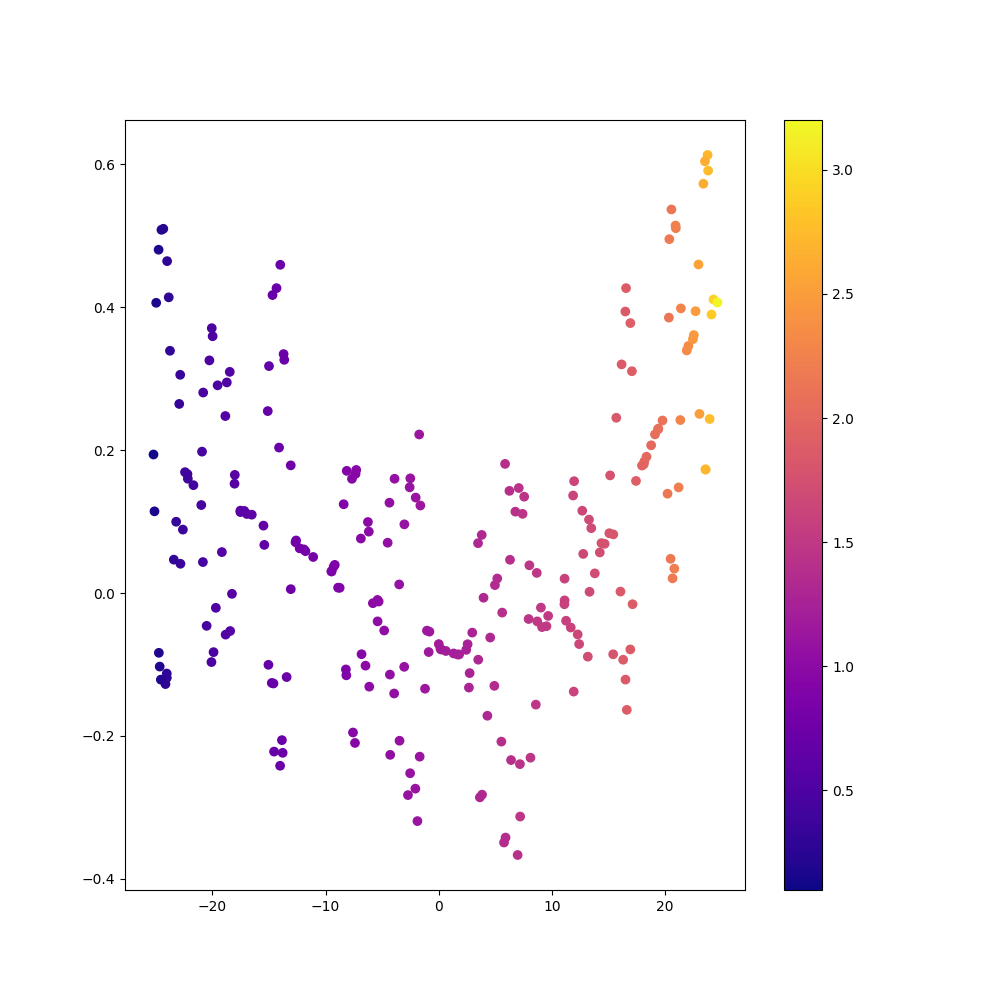
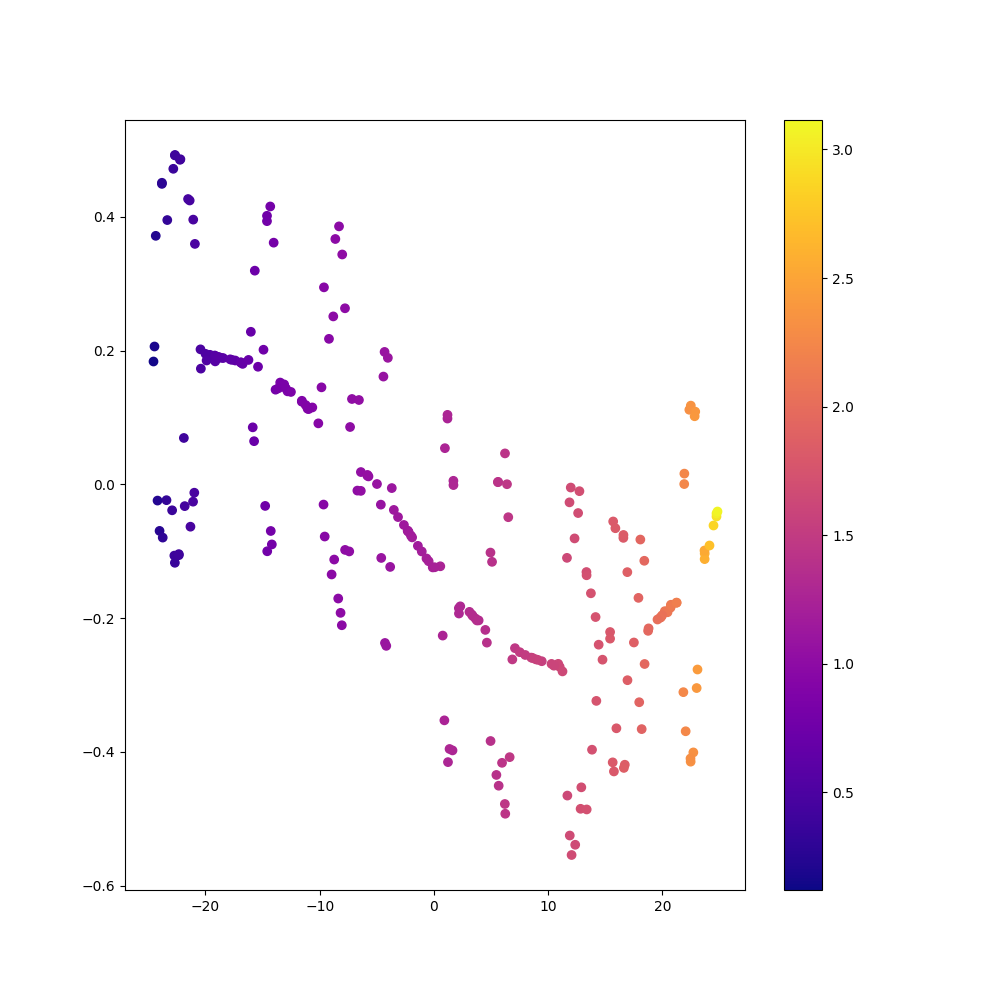
small bug fix. Decoder branch uses proper MSE reconstruction loss

diff --git a/imbal/util/backend/model.py b/imbal/util/backend/model.py
@@ -1172,8 +1172,8 @@ class Model(keras.Model):
         updated_compile_kwargs = kwargs.copy()
         model_loss = updated_compile_kwargs.get('loss', False)
         updated_compile_kwargs['loss'] = (
-            [updated_compile_kwargs['loss'], self._representation_loss] if model_loss
-            else self._representation_loss
+            [updated_compile_kwargs['loss'], _mse_reconstruction_loss] if model_loss
+            else _mse_reconstruction_loss
         )
 
         model_metrics = kwargs.get('metrics', None)

diff --git a/development-notes/2026 Notes/Notes 8-26.md b/development-notes/2026 Notes/Notes 8-26.md
@@ -174,19 +174,57 @@
 	- Once happy with the time series plots, superimpose a circle on the pink plot that corresponds to the area of high error on the true vs predicted scatter plot $\checkmark$
 - SHAP will be used for explanations in section `4 SEP Forecasting tasks
 ## NASA
-- Use toy dataset for ensuring representation losses are working properly
+- Use toy dataset for ensuring representation losses are working properly $\checkmark$
 - SHAP can have some extra parameters for how many features to display, extra padding for the left side of the graph? Investigate
 
 ---
 # 9/1/26
 
 ## Thesis
+Axes of exploration:
+- Latent space unit hypersphere: y/n
+- Loss function, constant vs non-constant distance ratio
+- Use more than 2 (6) dimensions in representation space
+- (!!!) Inclusion/excluison of weighting samples inversely with respect to the distance in the label space 
+  (futher labels need not have similar representations)
+- joint, freeze, fine-tuning (fine-tuning will probably work best)
+
+We expect non-unit space and constant ratio to work well, and unit hypersphere and non-constant ratio to work well
+
+**Order of tasks:**
+- **Round 1:** Constant + linear (no hypersphere) w/ 6+ dimensions in the representation space (using 32 for SEP-E) w/ fine tuning
+	- Perhaps add joint here with time
+	- **Round 2:** Then, constant + no hypersphere + "decorrelation among features" loss (we expect this to help) (with joint as well if first experiments shows it to be any better)
+	- Keep results of the "winner" of above 2 experiments, try it with hypersphere to see if there is any improvement
+- **Round 3:** Later, unit hypersphere with non-constant speed, cosine similarity-based representation loss
+	- We expect this to be better than winner of first 2 experiments w/ hypersphere
+- **Round 4:** Hypersphere, constant distance ratio, *non-linear regressor*, trying best from rounds 2 and 3 to see which does better... or, is round 2 sufficient when using a non-linear regressor? (multiple layer regressor with activation functions)
+- Might be worth trying to weight samples by `t+6 - t` in the future
+
+**Other thoughts...**
 - Something for gradient conflicts
 	- Think not only of direction, but length
 	- More common samples means larger gradient vector
 	- Considering magnitude, scaling such that the magnitude of the vectors are of the same length
 ## Paper
 - SHAP will be used for explanations in section `4 SEP Forecasting tasks
+- Crop time series plots further to highlight areas of interested (right before and right after rising edge)
+	- Assume each picture will be 6.5 inches, across the page. Is is visible?
+	- Include dates in each tick mark, ticks can be 6-12 hours apart
+	- y label can simply be `ln(flux)`Loss
 ## NASA
-- Use toy dataset for ensuring representation losses are working properly
+
+Using toy dataset...
+
+|         | MSE Loss     | Representation Loss | Fine Tuning/Joint | MAE | Rare MAE | AORE |
+| ------- | ------------ | ------------------- | ----------------- | --- | -------- | ---- |
+| Round 1 | $\checkmark$ | $\times$            | N/A               |     |          |      |
+| Round 2 | $\times$     | $\checkmark$        | N/A               | N/A | N/A      | N/A  |
+| Round 3 | $\checkmark$ | $\checkmark$        | joint             |     |          |      |
+| Round 4 | $\checkmark$ | $\checkmark$        | fine tuning       |     |          |      |
+
+- Representation learning, add `representation_lambda` parameter for `Model.compile`
+	- For reconstruction branch, default behavior is determining lambda ourselves. If they specify a lambda, use theirs instead.
 - SHAP can have some extra parameters for how many features to display, extra padding for the left side of the graph? Investigate
+- `validation_split` overrides previous behavior in some cases
+	- Can this be split into `k_folds` and `validation_split`
